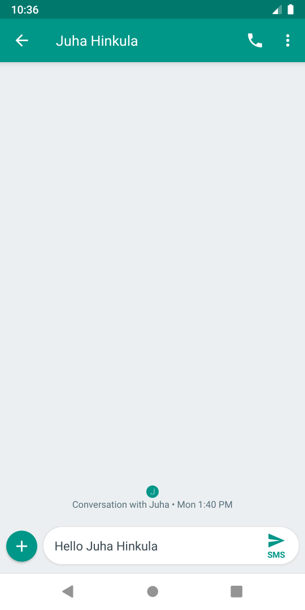
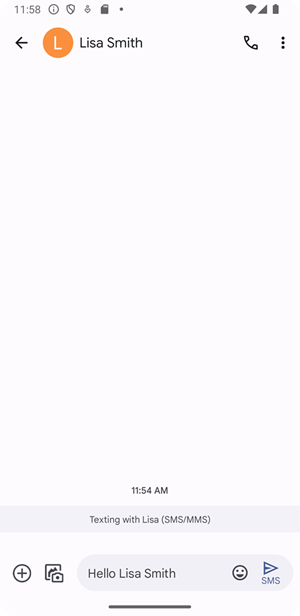
expo sdk modifications

diff --git a/docs/ExpoSDK/contacts.md b/docs/ExpoSDK/contacts.md
@@ -58,15 +58,15 @@ const getContacts = async () => {
 ```
 Contact object looks the following (Android)
 
-```json
+```js
 Object {
   "contactType": "person",
-  "firstName": "Juha",
+  "firstName": "Lisa",
   "id": "1",
   "imageAvailable": false,
-  "lastName": "Hinkula",
+  "lastName": "Smith",
   "lookupKey": "0r1-3B5137293739433D513F29",
-  "name": "Juha Hinkula",
+  "name": "Lisa Smith",
   "phoneNumbers": Array [
     Object {
       "id": "1",
@@ -77,7 +77,6 @@ Object {
     },
   ],
 }
-
 ```
 In the `return` statement, we add the `Button` and `Text` components. The button invokes the `getContacts` function and the name of the first contact is shown in the `Text` component.
 

diff --git a/docs/React Native/corecomponents.md b/docs/React Native/corecomponents.md
@@ -59,7 +59,6 @@ return (
 
 For more information and examples, refer to the official documentation https://reactnative.dev/docs/text
 
-
 ### Button
 `Button` component provides a basic button for user interaction
 
